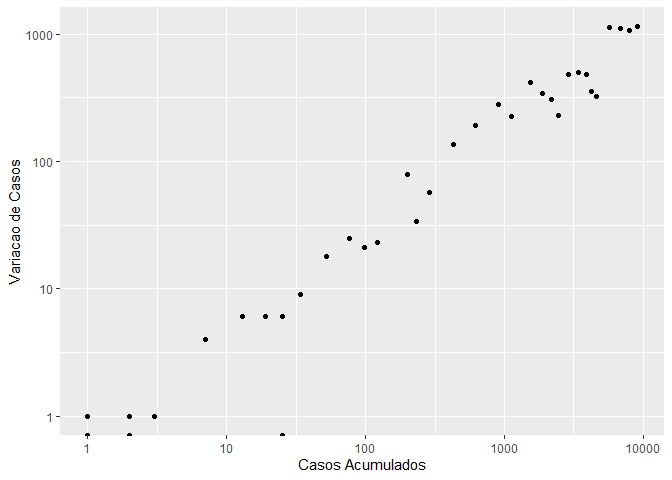
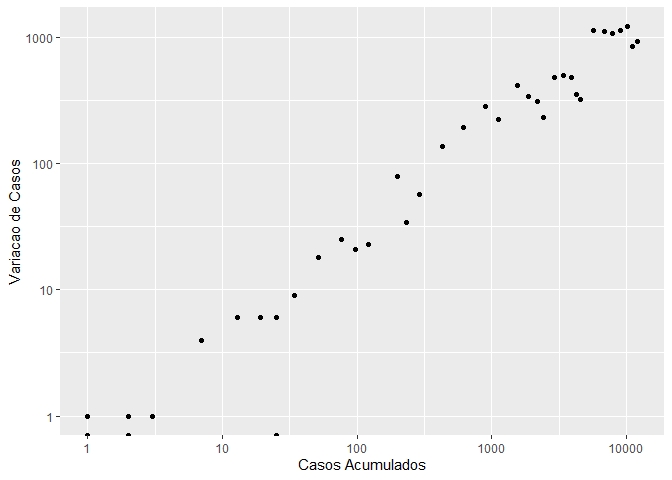
Update README

diff --git a/README.md b/README.md
@@ -41,17 +41,24 @@ library(coronavirusbrazil)
 
 data("coronavirus_br")
 head(coronavirus_br) 
-#>         date cases deaths delta_cases delta_deaths days_gt_10 days_gt_100
-#> 1 2020-02-25     0      0          NA           NA         NA          NA
-#> 2 2020-02-26     1      0           1            0         NA          NA
-#> 3 2020-02-27     1      0           0            0         NA          NA
-#> 4 2020-02-28     1      0           0            0         NA          NA
-#> 5 2020-02-29     2      0           1            0         NA          NA
-#> 6 2020-03-01     2      0           0            0         NA          NA
+#>         date cases deaths new_cases new_deaths death_rate percent_case_increase
+#> 1 2020-02-25     0      0        NA         NA        NaN                    NA
+#> 2 2020-02-26     1      0         1          0          0                   Inf
+#> 3 2020-02-27     1      0         0          0          0                     0
+#> 4 2020-02-28     1      0         0          0          0                     0
+#> 5 2020-02-29     2      0         1          0          0                   100
+#> 6 2020-03-01     2      0         0          0          0                     0
+#>   percent_death_increase days_gt_10 days_gt_100
+#> 1                     NA         NA          NA
+#> 2                    NaN         NA          NA
+#> 3                    NaN         NA          NA
+#> 4                    NaN         NA          NA
+#> 5                    NaN         NA          NA
+#> 6                    NaN         NA          NA
 ```
 
 ``` r
-plot_coronavirus_br(coronavirus_br, xaxis_br = "cases", delta = TRUE, log_scale = TRUE)
+plot_coronavirus(coronavirus_br, xaxis = "cases", yaxis = "new_cases", log_scale = TRUE)
 ```
 
 <img src="man/figures/README-unnamed-chunk-2-1.png" width="100%" />
@@ -59,20 +66,22 @@ plot_coronavirus_br(coronavirus_br, xaxis_br = "cases", delta = TRUE, log_scale 
 ``` r
 data("coronavirus_br_states")
 head(coronavirus_br_states) 
-#> # A tibble: 6 x 8
+#> # A tibble: 6 x 11
 #> # Groups:   state [1]
-#>   state date       cases deaths delta_cases delta_deaths days_gt_10 days_gt_100
-#>   <chr> <date>     <dbl>  <dbl>       <dbl>        <dbl>      <dbl>       <dbl>
-#> 1 RO    2020-02-25     0      0           0            0         NA          NA
-#> 2 RO    2020-02-26     0      0           0            0         NA          NA
-#> 3 RO    2020-02-27     0      0           0            0         NA          NA
-#> 4 RO    2020-02-28     0      0           0            0         NA          NA
-#> 5 RO    2020-02-29     0      0           0            0         NA          NA
-#> 6 RO    2020-03-01     0      0           0            0         NA          NA
+#>   state date       cases deaths new_cases new_deaths death_rate percent_case_in~
+#>   <chr> <date>     <dbl>  <dbl>     <dbl>      <dbl>      <dbl>            <dbl>
+#> 1 RO    2020-02-25     0      0         0          0        NaN              NaN
+#> 2 RO    2020-02-26     0      0         0          0        NaN              NaN
+#> 3 RO    2020-02-27     0      0         0          0        NaN              NaN
+#> 4 RO    2020-02-28     0      0         0          0        NaN              NaN
+#> 5 RO    2020-02-29     0      0         0          0        NaN              NaN
+#> 6 RO    2020-03-01     0      0         0          0        NaN              NaN
+#> # ... with 3 more variables: percent_death_increase <dbl>, days_gt_10 <dbl>,
+#> #   days_gt_100 <dbl>
 ```
 
 ``` r
-plot_coronavirus_states(coronavirus_br_states, filter_state = c("RJ", "SP", delta = TRUE, log_scale = TRUE))
+plot_coronavirus(coronavirus_br_states, yaxis = "new_cases", color = "state", filter_variable = "state", facet = "state", filter_values = c("RJ", "SP"), log_scale = TRUE)
 #> Scale for 'y' is already present. Adding another scale for 'y', which will
 #> replace the existing scale.
 ```
@@ -82,17 +91,20 @@ plot_coronavirus_states(coronavirus_br_states, filter_state = c("RJ", "SP", delt
 ``` r
 data("coronavirus_br_cities")
 head(coronavirus_br_cities) 
-#> # A tibble: 6 x 11
-#>   date       state city  place_type cases deaths is_last estimated_popul~
-#>   <date>     <chr> <chr> <chr>      <dbl>  <dbl> <lgl>              <dbl>
-#> 1 2020-04-03 AC    Acre~ city           9      0 TRUE               15256
-#> 2 2020-04-03 AC    Port~ city           1      0 TRUE               18504
-#> 3 2020-04-03 AC    Rio ~ city          36      0 TRUE              407319
-#> 4 2020-04-03 AL    Impo~ city           4      0 TRUE                  NA
-#> 5 2020-04-03 AL    Mace~ city          17      2 TRUE             1018948
-#> 6 2020-04-03 AL    Mare~ city           1      0 TRUE               51901
-#> # ... with 3 more variables: city_ibge_code <dbl>,
-#> #   confirmed_per_100k_inhabitants <dbl>, death_rate <dbl>
+#> # A tibble: 6 x 17
+#> # Groups:   city [1]
+#>   city  date       state place_type cases deaths is_last estimated_popul~
+#>   <chr> <date>     <chr> <chr>      <dbl>  <dbl> <lgl>              <dbl>
+#> 1 Abae~ 2020-03-31 PA    city           1      0 FALSE             157698
+#> 2 Abae~ 2020-04-01 PA    city           1      0 FALSE             157698
+#> 3 Abae~ 2020-04-02 PA    city           1      0 FALSE             157698
+#> 4 Abae~ 2020-04-03 PA    city           1      0 FALSE             157698
+#> 5 Abae~ 2020-04-04 PA    city           1      0 FALSE             157698
+#> 6 Abae~ 2020-04-05 PA    city           1      0 FALSE             157698
+#> # ... with 9 more variables: city_ibge_code <dbl>,
+#> #   confirmed_per_100k_inhabitants <dbl>, death_rate <dbl>, new_cases <dbl>,
+#> #   new_deaths <dbl>, percent_case_increase <dbl>,
+#> #   percent_death_increase <dbl>, days_gt_10 <dbl>, days_gt_100 <dbl>
 ```
 
 There are also geospatial datasets avaiable:
@@ -100,33 +112,36 @@ There are also geospatial datasets avaiable:
 ``` r
 dplyr::glimpse(spatial_br_states)
 #> Observations: 27
-#> Variables: 13
-#> $ id           <chr> "AC", "AL", "AM", "AP", "BA", "CE", "DF", "ES", "GO", ...
-#> $ name         <chr> "Acre", "Alagoas", "Amazonas", "Amapá", "Bahia", "Cear...
-#> $ uf           <chr> "AC", "AL", "AM", "AP", "BA", "CE", "DF", "ES", "GO", ...
-#> $ codigo       <int> 12, 27, 13, 16, 29, 23, 53, 32, 52, 21, 31, 50, 51, 15...
-#> $ regiao       <chr> "Norte", "Nordeste", "Norte", "Norte", "Nordeste", "No...
-#> $ geometry     <list> [<-70.470805, -9.213489>, <-36.622412, -9.514914>, <-...
-#> $ date         <date> 2020-04-03, 2020-04-03, 2020-04-03, 2020-04-03, 2020-...
-#> $ cases        <dbl> 46, 22, 260, 19, 282, 627, 402, 139, 88, 81, 397, 60, ...
-#> $ deaths       <dbl> 0, 2, 7, 0, 5, 22, 5, 4, 2, 1, 6, 1, 1, 1, 1, 10, 4, 4...
-#> $ delta_cases  <dbl> 3, 4, 31, 8, 15, 77, 32, 19, 15, 10, 27, 7, 8, 4, 8, 3...
-#> $ delta_deaths <dbl> 0, 1, 4, 0, 2, 2, 1, 3, 1, 0, 2, 0, 1, 0, 0, 1, 0, 0, ...
-#> $ log_cases    <dbl> 1.662758, 1.342423, 2.414973, 1.278754, 2.450249, 2.79...
-#> $ log_deaths   <dbl> -Inf, 0.3010300, 0.8450980, -Inf, 0.6989700, 1.3424227...
+#> Variables: 16
+#> $ id                     <chr> "AC", "AL", "AM", "AP", "BA", "CE", "DF", "E...
+#> $ name                   <chr> "Acre", "Alagoas", "Amazonas", "Amapá", "Bah...
+#> $ uf                     <chr> "AC", "AL", "AM", "AP", "BA", "CE", "DF", "E...
+#> $ codigo                 <int> 12, 27, 13, 16, 29, 23, 53, 32, 52, 21, 31, ...
+#> $ regiao                 <chr> "Norte", "Nordeste", "Norte", "Norte", "Nord...
+#> $ geometry               <list> [<-70.470805, -9.213489>, <-36.622412, -9.5...
+#> $ date                   <date> 2020-04-06, 2020-04-06, 2020-04-06, 2020-04...
+#> $ cases                  <dbl> 50, 31, 532, 34, 431, 1013, 473, 194, 119, 1...
+#> $ deaths                 <dbl> 0, 2, 19, 2, 10, 29, 10, 6, 5, 2, 9, 1, 1, 3...
+#> $ new_cases              <dbl> 2, 3, 115, 5, 30, 190, 5, 28, 4, 37, 27, 1, ...
+#> $ new_deaths             <dbl> 0, 0, 5, 0, 1, 3, 3, 0, 2, 0, 3, 0, 0, 2, 0,...
+#> $ death_rate             <dbl> 0.00000000, 0.06451613, 0.03571429, 0.058823...
+#> $ percent_case_increase  <dbl> 4.166667, 10.714286, 27.577938, 17.241379, 7...
+#> $ percent_death_increase <dbl> NaN, 0.00000, 35.71429, 0.00000, 11.11111, 1...
+#> $ log_cases              <dbl> 1.698970, 1.491362, 2.725912, 1.531479, 2.63...
+#> $ log_deaths             <dbl> -Inf, 0.3010300, 1.2787536, 0.3010300, 1.000...
 #plot(spatial_br_states)
 ```
 
 ``` r
 dplyr::glimpse(spatial_br_cities)
-#> Observations: 583
+#> Observations: 744
 #> Variables: 7
-#> $ date       <date> 2020-04-03, 2020-04-03, 2020-04-03, 2020-04-03, 2020-04...
-#> $ city       <chr> "Abaetetuba", "Açailândia", "Acrelândia", "Açu", "Adaman...
-#> $ cases      <dbl> 1, 1, 9, 6, 1, 1, 1, 1, 1, 3, 1, 1, 1, 1, 3, 0, 3, 3, 2,...
+#> $ date       <date> 2020-04-06, 2020-04-04, 2020-04-06, 2020-04-06, 2020-04...
+#> $ city       <chr> "Abaetetuba", "Abaiara", "Açailândia", "Acrelândia", "Aç...
+#> $ cases      <dbl> 1, 1, 1, 9, 8, 0, 1, 1, 1, 1, 1, 1, 5, 1, 1, 1, 1, 3, 1,...
 #> $ deaths     <dbl> 0, 0, 0, 0, 0, 0, 0, 0, 0, 0, 0, 0, 0, 0, 0, 0, 0, 0, 0,...
-#> $ geometry   <list> [<-48.87880, -1.72183>, <-47.50040, -4.94714>, <-66.897...
-#> $ log_cases  <dbl> 0.0000000, 0.0000000, 0.9542425, 0.7781513, 0.0000000, 0...
+#> $ geometry   <list> [<-48.87880, -1.72183>, <-39.04160, -7.34588>, <-47.500...
+#> $ log_cases  <dbl> 0.0000000, 0.0000000, 0.0000000, 0.9542425, 0.9030900, -...
 #> $ log_deaths <dbl> -Inf, -Inf, -Inf, -Inf, -Inf, -Inf, -Inf, -Inf, -Inf, -I...
 #plot(spatial_br_states)
 ```
